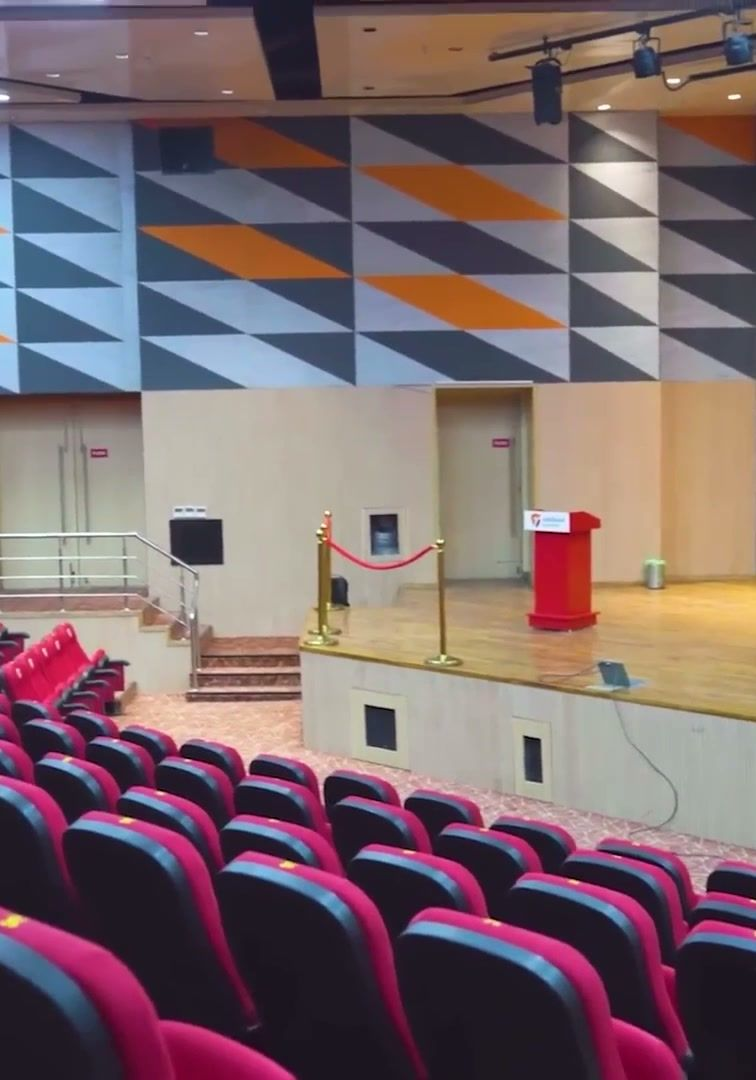
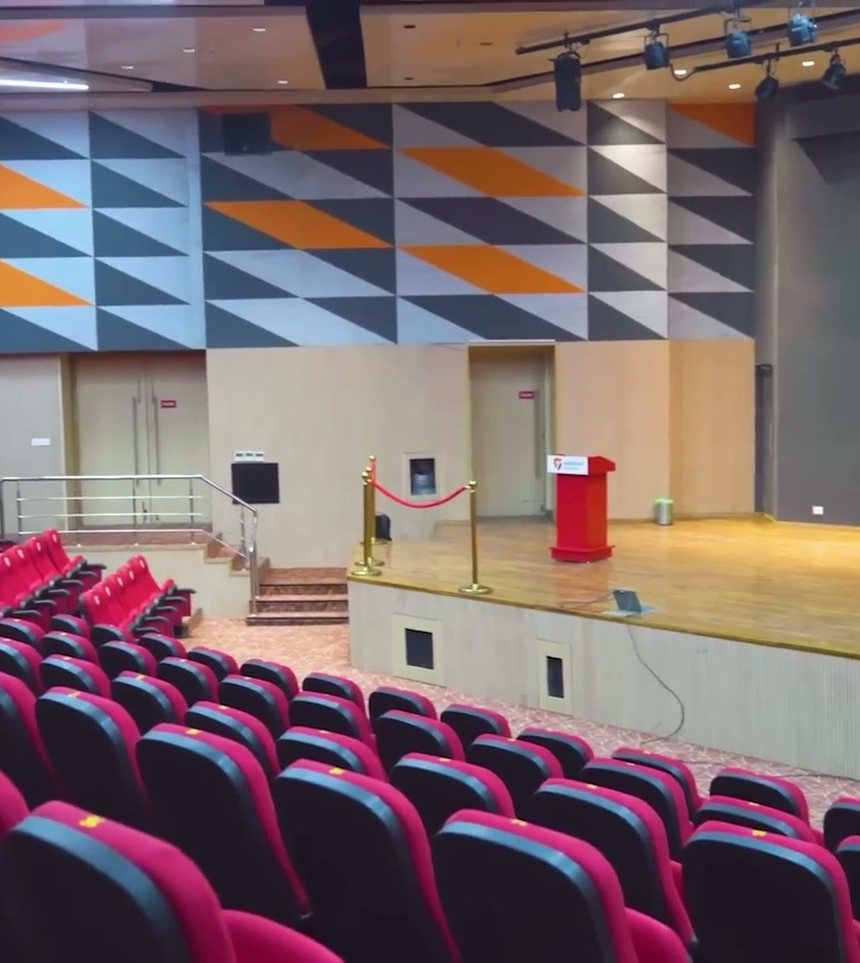
Rishihood facilities carousel: the photo box clips its push-in (no spill past the stage); a squarer 440 px view with wider, sharper crops from the tour

diff --git a/campus-rishihood.html b/campus-rishihood.html
@@ -3942,15 +3942,16 @@ html.fest-v-dome .fest-cap{display:flex;flex-direction:column;align-items:center
 .cmp-kw-c{flex:none;display:inline-flex;align-items:center;gap:8px;height:44px;padding:0 16px 0 14px;border:0;border-radius:999px;background:rgba(255,255,255,.06);box-shadow:inset 0 0 0 1px rgba(255,255,255,.14);font-family:var(--font);font-size:14px;line-height:20px;font-weight:600;color:rgba(255,255,255,.75);cursor:pointer;-webkit-tap-highlight-color:transparent;transition:background-color .25s ease,color .25s ease,box-shadow .25s ease}
 .cmp-kw-c svg{flex:none;width:20px;height:20px}
 .cmp-kw-c.is-on{background:#fff;box-shadow:none;color:#16191D}
-/* the photos, wholly immersive (20 Oct, his ask): they fill the dome's top as the video did, crossfading with a slow push-in; the
+/* the photos, wholly immersive (20 Oct, his ask): they fill the dome's top as the video did (440 tall since 20 Oct: the tour's
+   frames are landscape, so a squarer view shows them sharper and wider), crossfading with a slow push-in; the
    number, the name and six progress segments sit at their foot; the segment of the photo on screen fills as it plays (5 s) and
    its end moves the carousel on. Paused while off screen or touched (.is-paused), still under reduced motion */
-.cmp-fart{position:absolute;left:50%;top:0;width:100cqw;height:600px;transform:translateX(-50%);pointer-events:none;background:#0B0C0E}
-.cmp-fs{position:absolute;inset:0;width:100%;height:100%;object-fit:cover;display:block;opacity:0;transform:scale(1.02);transition:opacity .8s ease}
+.cmp-fart{position:absolute;left:50%;top:0;width:100cqw;height:440px;transform:translateX(-50%);overflow:hidden;pointer-events:none;background:#0B0C0E}   /* clips the push-in: nothing spills past the stage */
+.cmp-fs{position:absolute;inset:0;width:100%;height:100%;object-fit:cover;display:block;opacity:0;transition:opacity .8s ease}
 .cmp-fs.is-on{opacity:1;animation:cmpKB 6.5s linear forwards}
-@keyframes cmpKB{from{transform:scale(1.02)}to{transform:scale(1.09)}}
-.cmp-fart-fade{position:absolute;inset:0;background:linear-gradient(180deg,rgba(11,12,14,.28) 0%,rgba(11,12,14,0) 16%,rgba(11,12,14,0) 52%,rgba(11,12,14,.62) 80%,rgba(11,12,14,.82) 100%)}
-.cmp-fstage{position:relative;height:600px;display:flex;flex-direction:column;justify-content:flex-end;padding:0 16px 14px;touch-action:pan-y;cursor:grab;user-select:none;-webkit-user-select:none}
+@keyframes cmpKB{from{transform:none}to{transform:scale(1.04)}}
+.cmp-fart-fade{position:absolute;inset:0;background:linear-gradient(180deg,rgba(11,12,14,.22) 0%,rgba(11,12,14,0) 18%,rgba(11,12,14,0) 46%,rgba(11,12,14,.6) 74%,rgba(11,12,14,.84) 100%)}
+.cmp-fstage{position:relative;height:440px;display:flex;flex-direction:column;justify-content:flex-end;padding:0 16px 14px;touch-action:pan-y;cursor:grab;user-select:none;-webkit-user-select:none}
 .cmp-fstage.is-drag{cursor:grabbing}
 .cmp-fcap{margin:0;display:flex;flex-direction:column;gap:6px}
 .cmp-fcap-n{font-size:11px;line-height:12px;font-weight:600;letter-spacing:1.6px;color:rgba(255,255,255,.6)}

diff --git a/tools/campus/cmp.css b/tools/campus/cmp.css
@@ -52,15 +52,16 @@
 .cmp-kw-c{flex:none;display:inline-flex;align-items:center;gap:8px;height:44px;padding:0 16px 0 14px;border:0;border-radius:999px;background:rgba(255,255,255,.06);box-shadow:inset 0 0 0 1px rgba(255,255,255,.14);font-family:var(--font);font-size:14px;line-height:20px;font-weight:600;color:rgba(255,255,255,.75);cursor:pointer;-webkit-tap-highlight-color:transparent;transition:background-color .25s ease,color .25s ease,box-shadow .25s ease}
 .cmp-kw-c svg{flex:none;width:20px;height:20px}
 .cmp-kw-c.is-on{background:#fff;box-shadow:none;color:#16191D}
-/* the photos, wholly immersive (20 Oct, his ask): they fill the dome's top as the video did, crossfading with a slow push-in; the
+/* the photos, wholly immersive (20 Oct, his ask): they fill the dome's top as the video did (440 tall since 20 Oct: the tour's
+   frames are landscape, so a squarer view shows them sharper and wider), crossfading with a slow push-in; the
    number, the name and six progress segments sit at their foot; the segment of the photo on screen fills as it plays (5 s) and
    its end moves the carousel on. Paused while off screen or touched (.is-paused), still under reduced motion */
-.cmp-fart{position:absolute;left:50%;top:0;width:100cqw;height:600px;transform:translateX(-50%);pointer-events:none;background:#0B0C0E}
-.cmp-fs{position:absolute;inset:0;width:100%;height:100%;object-fit:cover;display:block;opacity:0;transform:scale(1.02);transition:opacity .8s ease}
+.cmp-fart{position:absolute;left:50%;top:0;width:100cqw;height:440px;transform:translateX(-50%);overflow:hidden;pointer-events:none;background:#0B0C0E}   /* clips the push-in: nothing spills past the stage */
+.cmp-fs{position:absolute;inset:0;width:100%;height:100%;object-fit:cover;display:block;opacity:0;transition:opacity .8s ease}
 .cmp-fs.is-on{opacity:1;animation:cmpKB 6.5s linear forwards}
-@keyframes cmpKB{from{transform:scale(1.02)}to{transform:scale(1.09)}}
-.cmp-fart-fade{position:absolute;inset:0;background:linear-gradient(180deg,rgba(11,12,14,.28) 0%,rgba(11,12,14,0) 16%,rgba(11,12,14,0) 52%,rgba(11,12,14,.62) 80%,rgba(11,12,14,.82) 100%)}
-.cmp-fstage{position:relative;height:600px;display:flex;flex-direction:column;justify-content:flex-end;padding:0 16px 14px;touch-action:pan-y;cursor:grab;user-select:none;-webkit-user-select:none}
+@keyframes cmpKB{from{transform:none}to{transform:scale(1.04)}}
+.cmp-fart-fade{position:absolute;inset:0;background:linear-gradient(180deg,rgba(11,12,14,.22) 0%,rgba(11,12,14,0) 18%,rgba(11,12,14,0) 46%,rgba(11,12,14,.6) 74%,rgba(11,12,14,.84) 100%)}
+.cmp-fstage{position:relative;height:440px;display:flex;flex-direction:column;justify-content:flex-end;padding:0 16px 14px;touch-action:pan-y;cursor:grab;user-select:none;-webkit-user-select:none}
 .cmp-fstage.is-drag{cursor:grabbing}
 .cmp-fcap{margin:0;display:flex;flex-direction:column;gap:6px}
 .cmp-fcap-n{font-size:11px;line-height:12px;font-weight:600;letter-spacing:1.6px;color:rgba(255,255,255,.6)}
